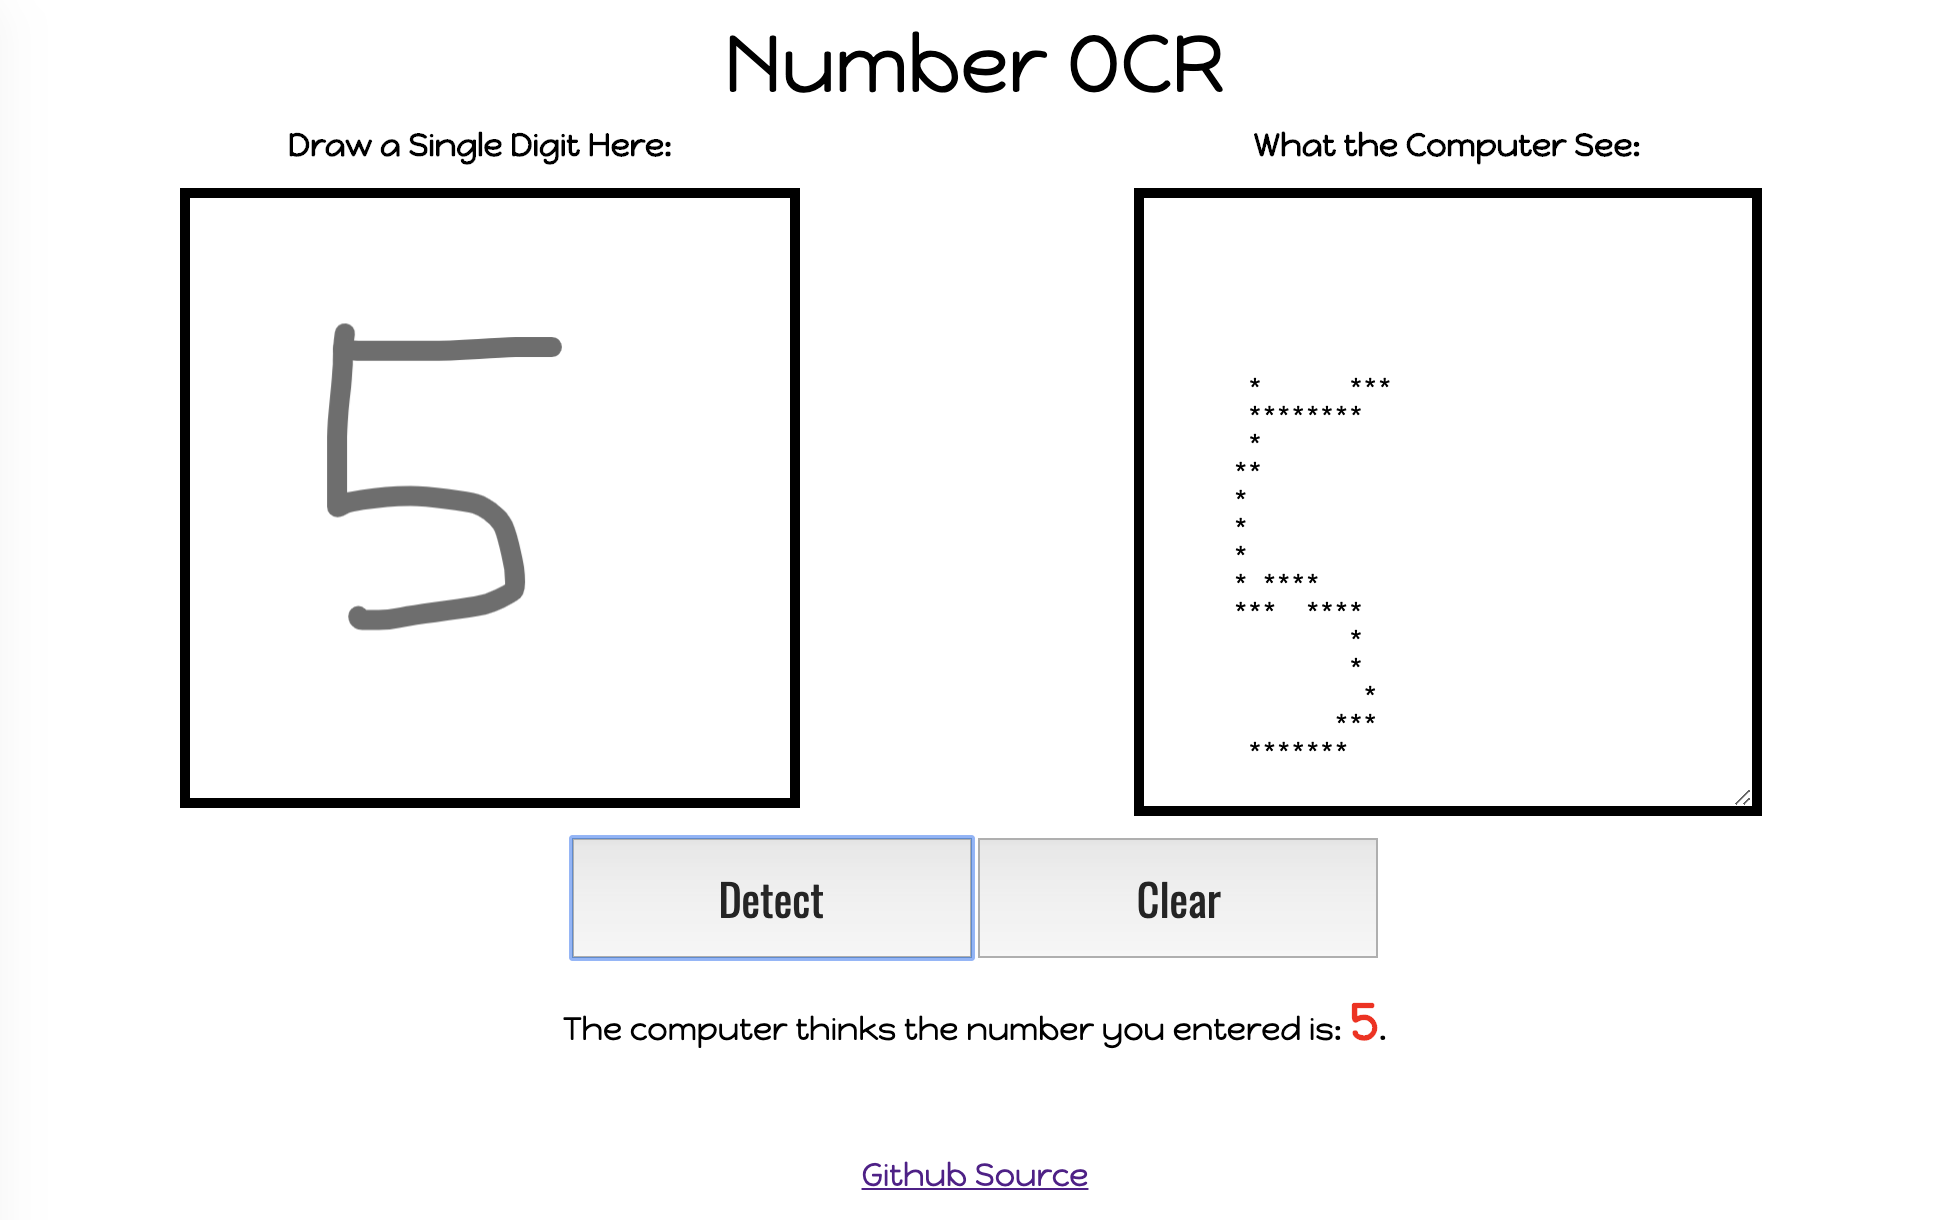
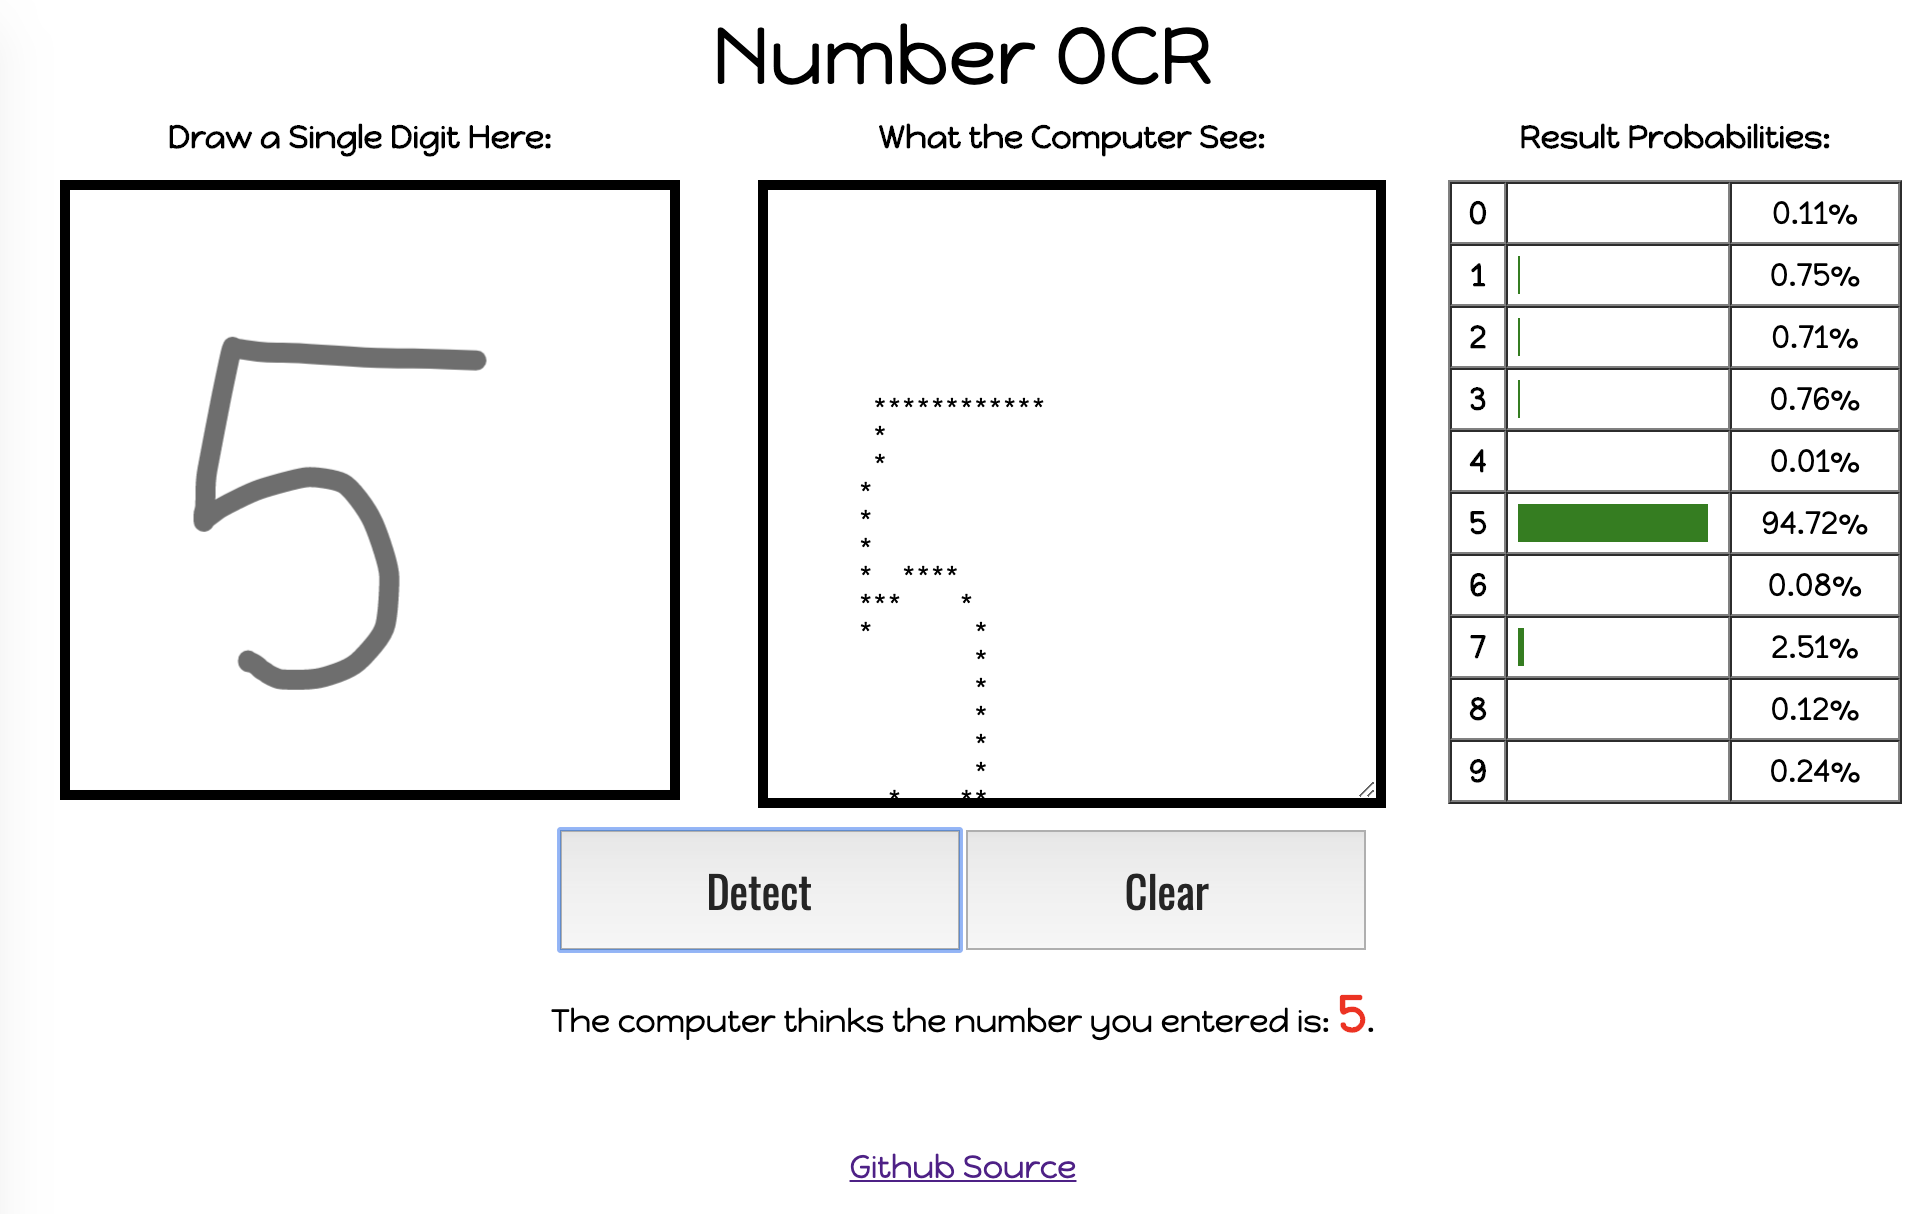
Display probabilities.

diff --git a/static/index.html b/static/index.html
@@ -46,6 +46,10 @@
         vertical-align: top;
       }
 
+      div.graph {
+        background-color: green;
+      }
+
     </style>
   </head>
   <body>
@@ -56,10 +60,65 @@
       <tr>
         <td align="center"><b>Draw a Single Digit Here:</b></td>
         <td align="center"><b>What the Computer See:</b></td>
+        <td align="center"><b>Result Probabilities:</b></td>
       </tr>
       <tr>
         <td align="center"><canvas id="canvas" width="300" height="300" ></canvas></td>
         <td align="center"><textarea id="debug" rows="28" cols="28"></textarea></td>
+        <td align="center">
+          <table width="100%" border="1" cellpadding="5" cellspacing="0">
+            <tr>
+              <td align="center"><b>0</b></td>
+              <td width="100"><div id="graph0" class="graph" style="width: 0%;">&nbsp;</div></td>
+              <td align="center" id="0"></td>
+            </tr>
+            <tr>
+              <td align="center"><b>1</b></td>
+              <td><div id="graph1" class="graph" style="width: 0%;">&nbsp;</div></td>
+              <td align="center" id="1"></td>
+            </tr>
+            <tr>
+              <td align="center"><b>2</b></td>
+              <td><div id="graph2" class="graph" style="width: 0%;">&nbsp;</div></td>
+              <td align="center" id="2"></td>
+            </tr>
+            <tr>
+              <td align="center"><b>3</b></td>
+              <td><div id="graph3" class="graph" style="width: 0%;">&nbsp;</div></td>
+              <td align="center" id="3"></td>
+            </tr>
+            <tr>
+              <td align="center"><b>4</b></td>
+              <td><div id="graph4" class="graph" style="width: 0%;">&nbsp;</div></td>
+              <td align="center" id="4"></td>
+            </tr>
+            <tr>
+              <td align="center"><b>5</b></td>
+              <td><div id="graph5" class="graph" style="width: 0%;">&nbsp;</div></td>
+              <td align="center" id="5"></td>
+            </tr>
+            <tr>
+              <td align="center"><b>6</b></td>
+              <td><div id="graph6" class="graph" style="width: 0%;">&nbsp;</div></td>
+              <td align="center" id="6"></td>
+            </tr>
+            <tr>
+              <td align="center"><b>7</b></td>
+              <td><div id="graph7" class="graph" style="width: 0%;">&nbsp;</div></td>
+              <td align="center" id="7"></td>
+            </tr>
+            <tr>
+              <td align="center"><b>8</b></td>
+              <td><div id="graph8" class="graph" style="width: 0%;">&nbsp;</div></td>
+              <td align="center" id="8"></td>
+            </tr>
+            <tr>
+              <td align="center"><b>9</b></td>
+              <td><div id="graph9" class="graph" style="width: 0%;">&nbsp;</div></td>
+              <td align="center" id="9"></td>
+            </tr>
+          </table>
+        </td>
       </tr>
     </table>
 
@@ -95,6 +154,12 @@
           document.getElementById('answer').innerHTML = r.answer;
           document.getElementById('debug').innerHTML = atob(r.debug);
           document.getElementById('result').style.display = 'block';
+
+          for (i=0; i<=9; i++) {
+            var value = (r[i] * 100).toFixed(2);
+            document.getElementById('graph' + i).style.width = value + "%";
+            document.getElementById(i).innerHTML = value + "%";
+          }
         }
       }
 
@@ -115,6 +180,13 @@
           canvas.clear();
           document.getElementById('result').style.display = 'none';
           document.getElementById('debug').innerHTML = '';
+
+          for (i=0; i<=9; i++) {
+            var value = 0;
+            document.getElementById('graph' + i).style.width = value + "%";
+            document.getElementById(i).innerHTML = value + "%";
+          }
+
         };
 
       })();

diff --git a/server.py b/server.py
@@ -61,6 +61,12 @@ def predict():
         debugString = debug(nparr)
         debugBuf = bytearray(debugString.encode("utf-8"))
         response["debug"] = base64.b64encode(debugBuf).decode("utf-8")
+
+        i = 0
+        for probability in predictions[0]:
+            response[str(i)] = str(probability)
+            i += 1
+
         return flask.jsonify(response)
     else:
         flask.abort(404)
